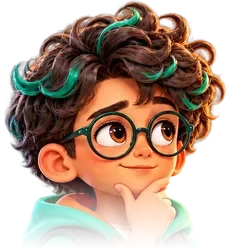
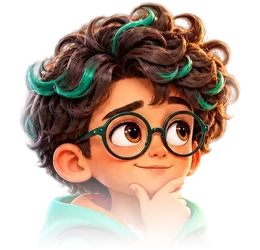
Quiz: Vorlesen unten rechts, weiche Köpfe, kleinere Tabs am Handy
Claude-Session: https://claude.ai/code/session_018Kz5WYchXh7NXAh8mR9Sh2

diff --git a/stil.js b/stil.js
@@ -1073,3 +1073,29 @@ const app = document.getElementById("app") || document.body;
 new MutationObserver(kind).observe(app, {childList:true, subtree:true});
 kind();
 })();
+
+/* ================= Vorlesen klein unten rechts neben dem 50:50, gleich grosse Frage/Erklärung-Knöpfe am Handy ================= */
+(function(){
+// Der Vorlese-Schalter wandert hinter die Antworten (bzw. hinter die Joker-Leiste) und sitzt rechts auf deren Höhe.
+// hilfen.js setzt die Joker-Leiste immer direkt hinter .answers ein, also bleibt sie vor dem Schalter.
+const B = "html body #app";
+const css = document.createElement("style"); css.id = "ep-vorlesen-unten-css";
+css.textContent = `
+${B} .card .answers ~ .hlf-vlrow{display:flex!important;justify-content:flex-end!important;align-items:center;margin:12px 0 0!important;min-height:44px}
+${B} .card .hlf-joker + .hlf-vlrow{margin-top:-44px!important;pointer-events:none;position:relative}
+${B} .card .answers ~ .hlf-vlrow button.hlf-vl.hlf-vl{--gh:32px;pointer-events:auto}
+@media (max-width:640px){
+  ${B} .card .tabs{gap:8px!important}
+  ${B} .card .tabs .tabbtn.tabbtn{--gh:42px!important;flex:1 1 0!important;min-width:0!important;width:auto!important;font-size:.95rem!important;gap:6px!important}
+  ${B} .card .tabs .tabbtn.tabbtn .gki{width:24px!important;height:24px!important}
+}`;
+document.head.appendChild(css);
+const schieben = () => document.querySelectorAll("#app .card").forEach(card => {
+  const row = card.querySelector(":scope > .hlf-vlrow"), ans = card.querySelector(":scope > .answers");
+  if(!row || !ans) return;
+  const ziel = ans.nextElementSibling?.classList.contains("hlf-joker") ? ans.nextElementSibling : ans;
+  if(ziel.nextElementSibling !== row) ziel.insertAdjacentElement("afterend", row);
+});
+new MutationObserver(schieben).observe(document.getElementById("app") || document.body, {childList:true, subtree:true});
+schieben();
+})();

diff --git a/index.html b/index.html
@@ -74,7 +74,7 @@ html.ep-boot #epBoot{display:flex;position:fixed;inset:0;z-index:99999;flex-dire
 <link rel="preload" as="image" href="img/kinder.webp">
 <script>/* Versionsprüfung: Ist diese Seite älter als die veröffentlichte Version (alter Speicher, Browser-Cache,
    Homescreen-App), alles Alte löschen und einmal frisch laden. Höchstens einmal pro 10 Minuten. */
-window.EP_BUILD="ep-2026-10-30-26";
+window.EP_BUILD="ep-2026-10-30-27";
 (function(){ try{
   if(window.claude || window.EP_NATIV || !/^https?:$/.test(location.protocol)){ window.__epVer="ok"; return; }   /* App (alles eingebaut) und Vorschau: keine Prüfung */
   /* Prüft, ob auf dem Server eine neuere Version liegt. Läuft beim Laden UND jedes Mal, wenn die Seite

diff --git a/sw.js b/sw.js
@@ -2,7 +2,7 @@
    Sorgt für schnelle Wiederholungsbesuche und Offline-Nutzung.
    Bei jeder Änderung an der App-Hülle VERSION hochzählen, damit alte Caches gelöscht werden. */
 
-const VERSION = "ep-2026-10-30-26";
+const VERSION = "ep-2026-10-30-27";
 const CACHE_HUELLE = VERSION + "-huelle";   // App-Hülle, Code, Daten
 // Bilder in einem festen Speicher: überlebt Updates (nur bilder/, img/, flags/), wird täglich still geprüft
 const CACHE_BILDER = "ep-bilder";

diff --git a/CLAUDE.md b/CLAUDE.md
@@ -32,6 +32,7 @@ Diese Datei ist der gemeinsame Kanal. Jede Sitzung liest sie vor der Arbeit und 
 - 21.10. 12:35, Sitzung «Hauptseite»: Danke! PR #11 und #12 sind bei mir übernommen. Ich lasse die Qeels-Blöcke in `index.html` und `qeels/` dir und melde mich hier, bevor ich dort etwas ändere.
 
 ## Erledigt (neueste oben)
+- 2026-10-30 (v27): Vorlese-Schalter klein unten rechts auf Höhe 50:50 (stil.js verschiebt .hlf-vlrow hinter .answers/.hlf-joker). Köpfe ringsum weich ausgeblendet. Handy: Frage/Erklärung gleich breit und kleiner (42px).
 - 2026-10-30 (v26): Sprechblase zeigt nur noch Ben und Leni (je denken, denken2, staunen); Lumi- und Milo-Köpfe entfernt.
 - 2026-10-30 (v25): Sprechblase: Kopf in fester Box (object-fit), ragt nie in die Blase; lange Wörter werden getrennt (hyphens); eigene Grössen unter 360px. Alle 10 Köpfe bei 1280, 820, 640, 390 und 320px geprüft.
 - 2026-10-30 (v24): Sprechblase gross im Comic-Stil (gelb, dunkler Rand und Schatten). Daneben bei jeder Frage zufällig ein anderer Kopf (Ben, Leni, Lumi, Milo; denken oder staunen) aus `img/kids/koepfe/`, unten ausgeblendet. leni-kopf.webp entfernt.
